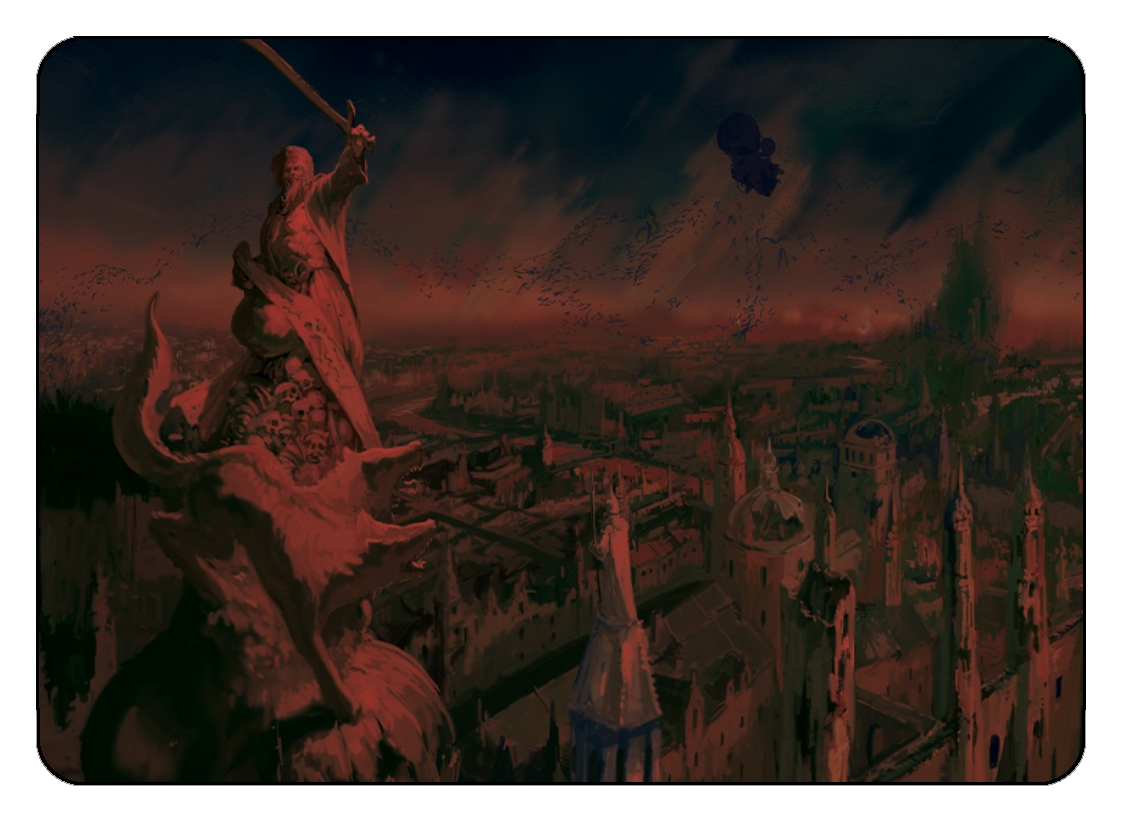
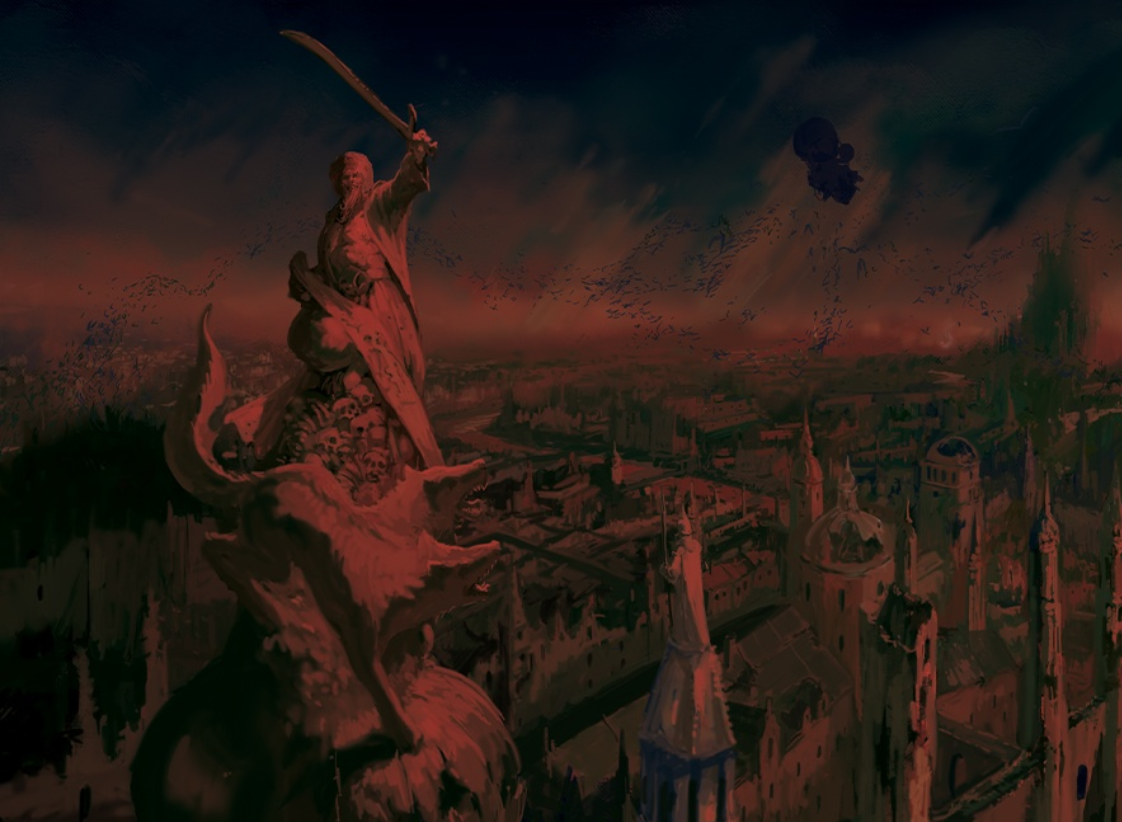
added option to remove frame, this will help with printing services that cut the cards for you

diff --git a/_includes/fighters/section-actions.html b/_includes/fighters/section-actions.html
@@ -1,3 +1,8 @@
+<div class="form-group form-check">
+    <input type="checkbox" class="form-check-input" id="removeBorder" onchange="onAnyChange()">
+    <label class="form-check-label" for="removeBorder">Remove border to add bleed area for printing</label>
+</div>
+
 <div class="mt-4">
     <button type="submit" class="btn btn-success" id="saveCanvasButton" onclick="saveCardAsImage()">
         Save card as image

diff --git a/assets/js/fighters.js b/assets/js/fighters.js
@@ -107,8 +107,9 @@ drawFrame = function(){
 
 
 drawBorder = function () {
-    getContext().drawImage(
-        document.getElementById('card-border'), 0, 0, getCanvas().width, getCanvas().height);
+    if(!document.getElementById("removeBorder").checked){
+        getContext().drawImage(document.getElementById('card-border'), 0, 0, getCanvas().width, getCanvas().height);
+    }
 }
 
 
